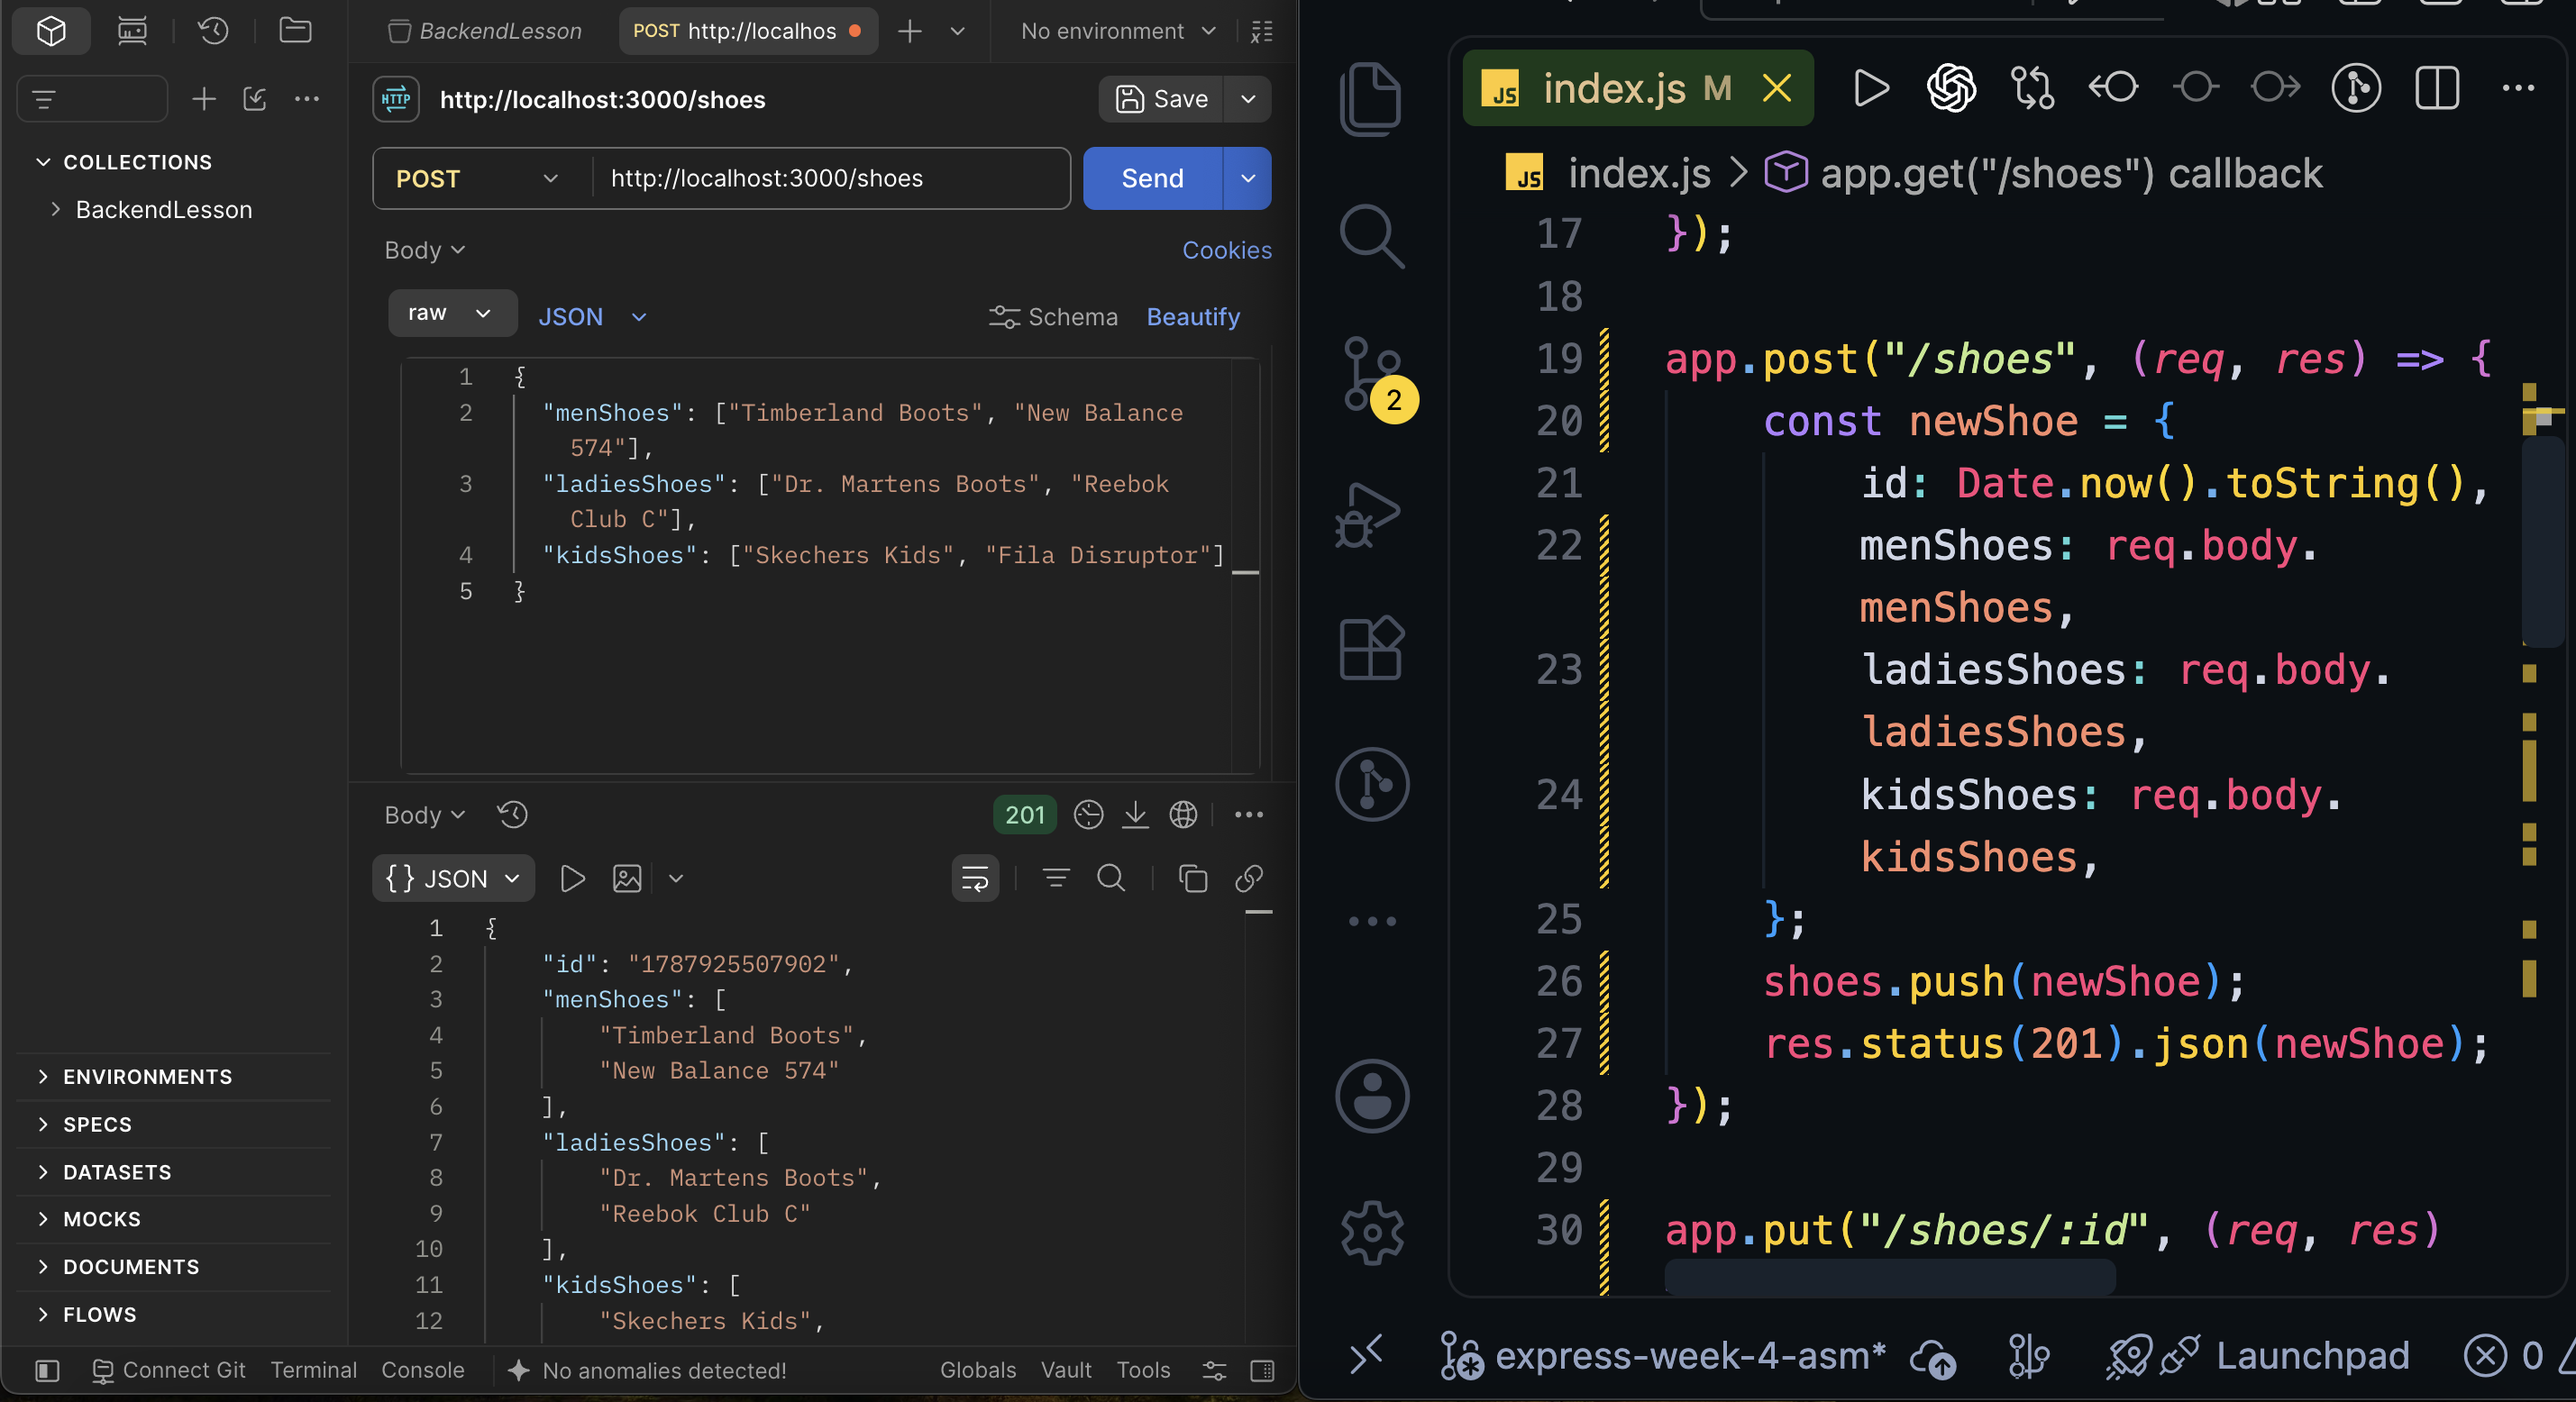
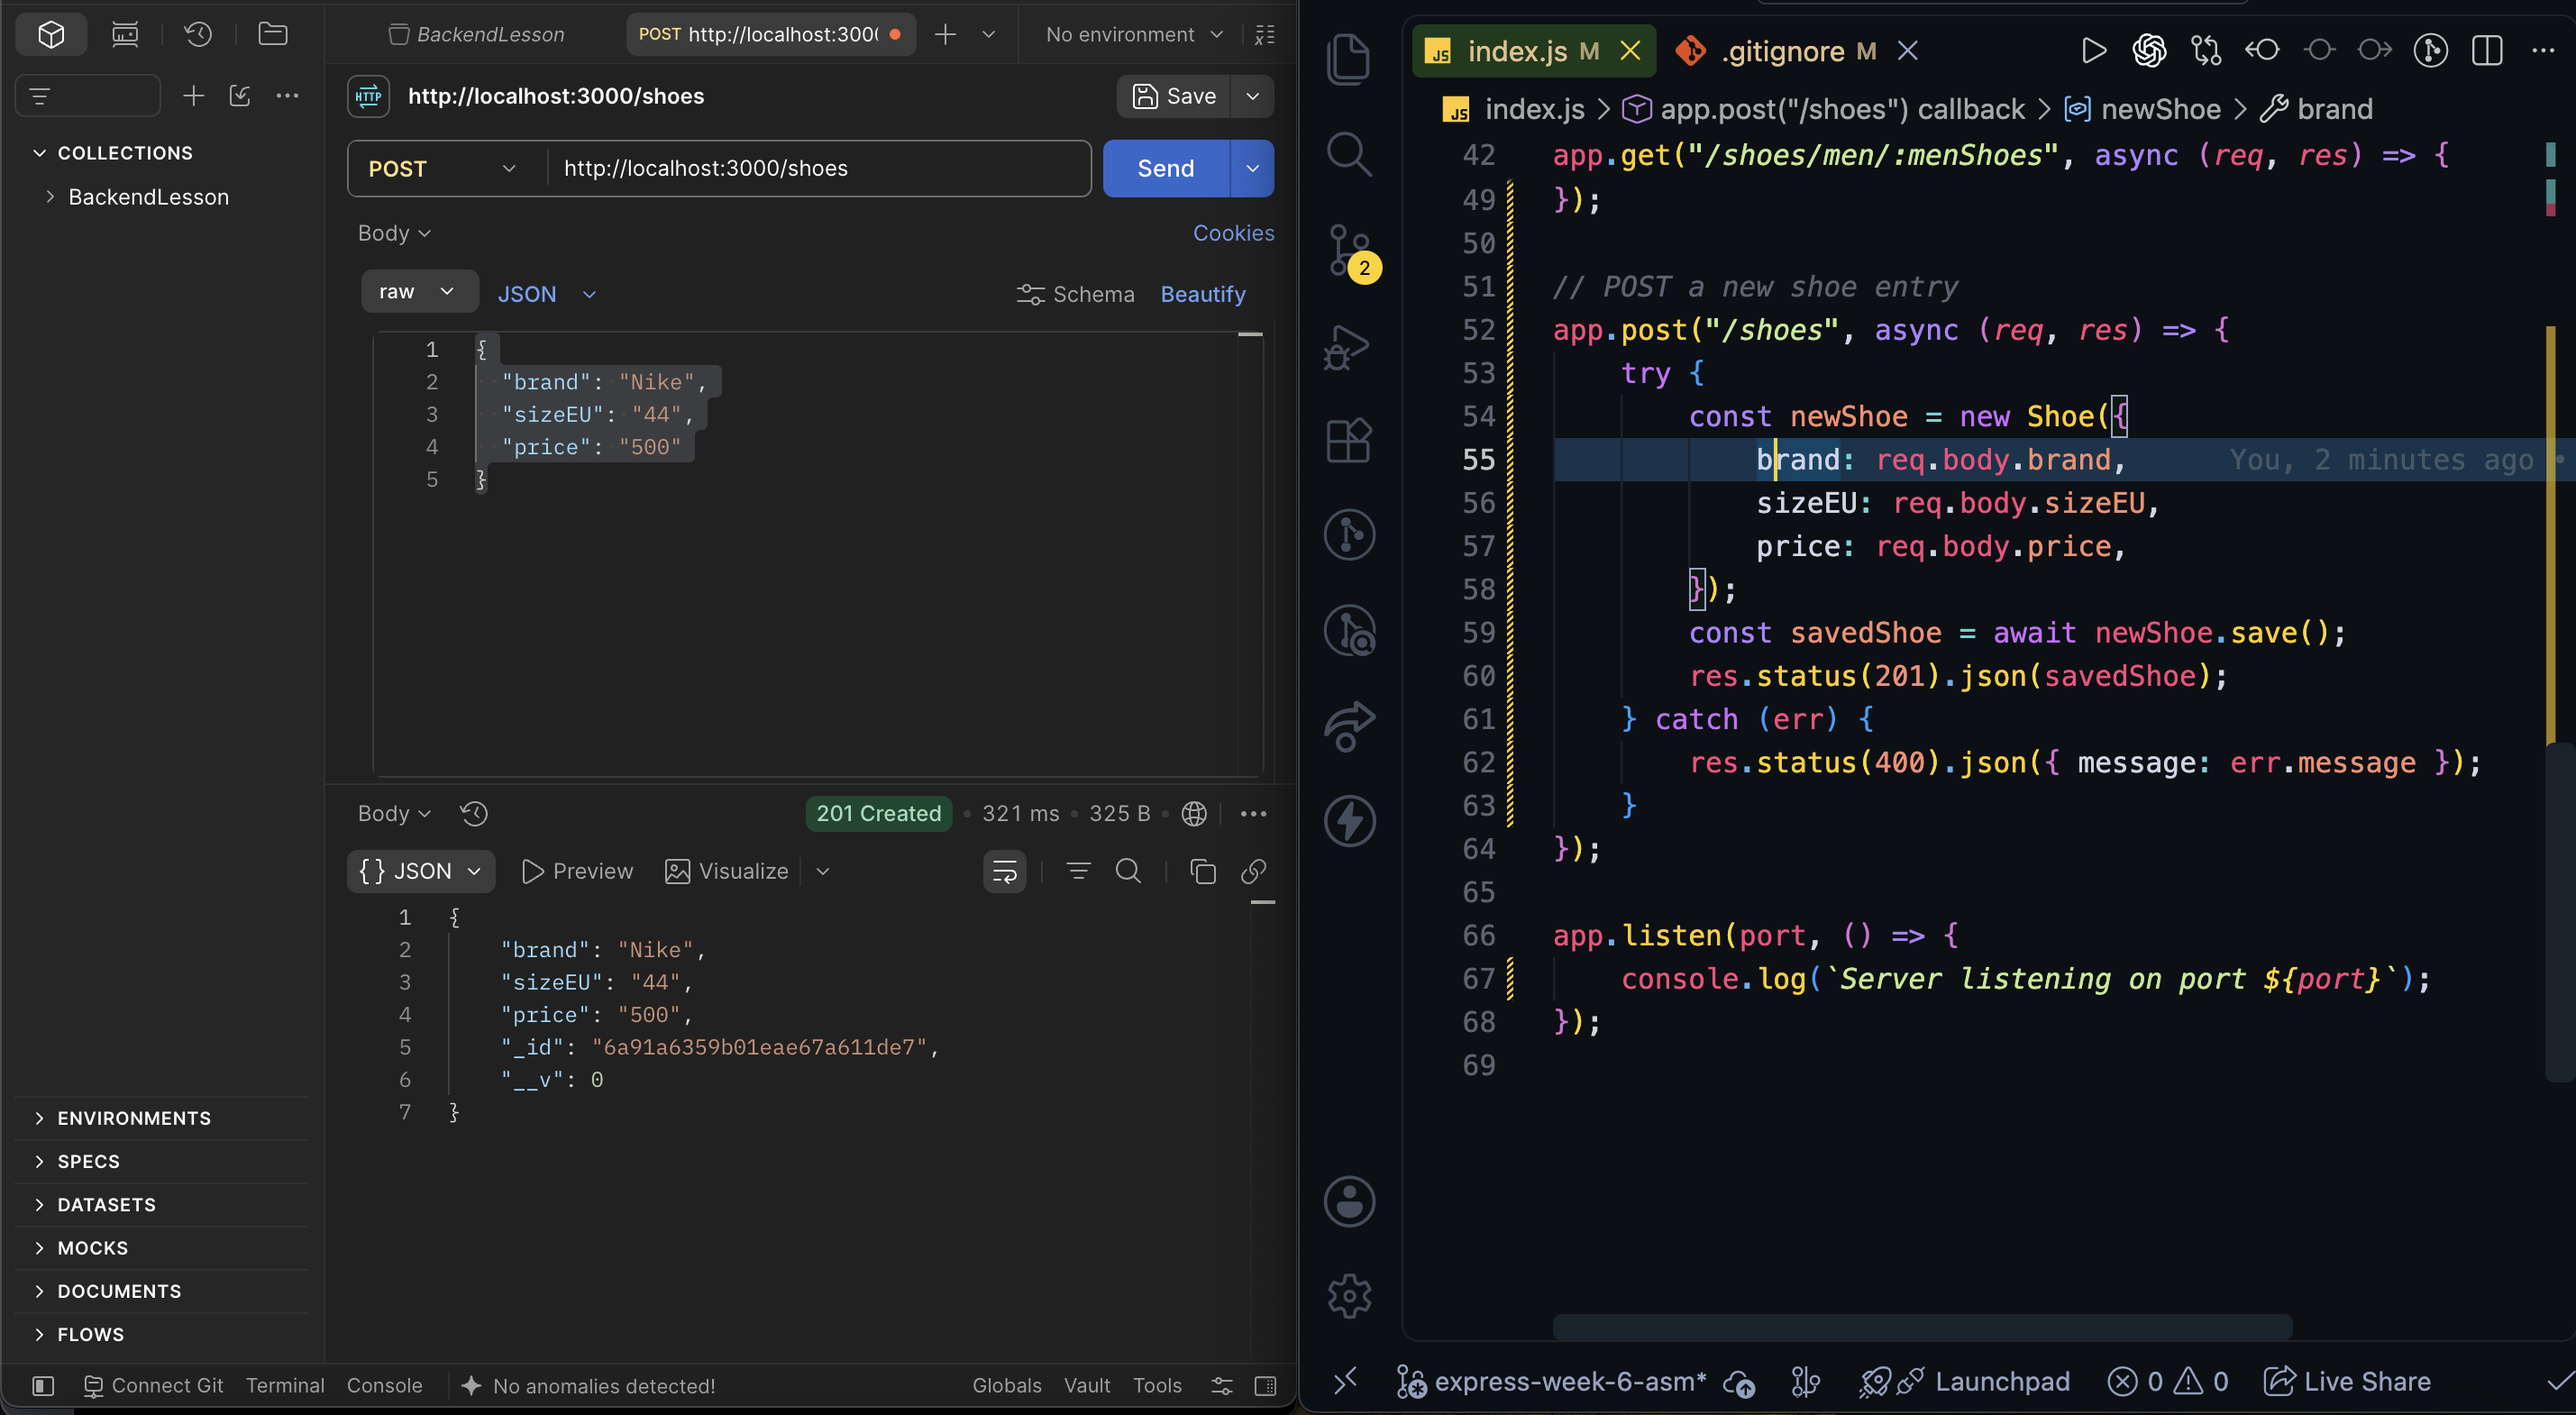
initial commit

diff --git a/index.js b/index.js
@@ -1,6 +1,9 @@
-const express = require("express");
-const app = express();
+require("dotenv").config();
 
+const express = require("express");
+const mongoose = require("mongoose");
+
+const app = express();
 const port = 3000;
 
 app.use(express.json());
@@ -10,46 +13,56 @@ app.use((req, res, next) => {
     next();
 });
 
-let shoes = [];
+// MongoDB Connection
+mongoose
+    .connect(process.env.MONGO_URI)
+    .then(() => console.log("Connected to MongoDB Atlas"))
+    .catch((err) => console.log("MongoDB connection error:", err));
 
-app.get("/shoes", (req, res) => {
-    res.json(shoes);
+// Shoe Store Schema & Model
+const shoeSchema = new mongoose.Schema({
+    brand: String,
+    sizeEU: String,
+    price: String,
 });
 
-app.post("/shoes", (req, res) => {
-    const newShoe = {
-        id: Date.now().toString(),
-        menShoes: req.body.menShoes,
-        ladiesShoes: req.body.ladiesShoes,
-        kidsShoes: req.body.kidsShoes,
-    };
-    shoes.push(newShoe);
-    res.status(201).json(newShoe);
-});
+const Shoe = mongoose.model("Shoe", shoeSchema);
 
-app.put("/shoes/:id", (req, res) => {
-    const id = req.params.id;
-    const index = shoes.findIndex((shoe) => shoe.id === id);
-
-    if (index !== -1) {
-        shoes[index] = {
-            id: id,
-            menShoes: req.body.menShoes,
-            ladiesShoes: req.body.ladiesShoes,
-            kidsShoes: req.body.kidsShoes,
-        };
-        res.json(shoes[index]);
-    } else {
-        res.status(404).json({ message: "Shoe store entry not found" });
+// GET all shoe entries
+app.get("/shoes", async (req, res) => {
+    try {
+        const shoes = await Shoe.find();
+        res.json(shoes);
+    } catch (err) {
+        res.status(500).json({ message: err.message });
     }
 });
 
-app.delete("/shoes/:id", (req, res) => {
-    const id = req.params.id;
-    shoes = shoes.filter((shoe) => shoe.id !== id);
-    res.json({ message: "Shoe store entry deleted" });
+// GET shoe entry by menShoes param
+app.get("/shoes/brand/:brand", async (req, res) => {
+    try {
+        const shoes = await Shoe.find({ menShoes: req.params.brand });
+        res.json(shoes);
+    } catch (err) {
+        res.status(500).json({ message: err.message });
+    }
+});
+
+// POST a new shoe entry
+app.post("/shoes", async (req, res) => {
+    try {
+        const newShoe = new Shoe({
+            brand: req.body.brand,
+            sizeEU: req.body.sizeEU,
+            price: req.body.price,
+        });
+        const savedShoe = await newShoe.save();
+        res.status(201).json(savedShoe);
+    } catch (err) {
+        res.status(400).json({ message: err.message });
+    }
 });
 
 app.listen(port, () => {
-    console.log(`Server listening on port ${port}\n`);
+    console.log(`Server listening on port ${port}`);
 });

diff --git a/README.md b/README.md
@@ -7,11 +7,3 @@
 ## POST request
 
 ![Screenshot of work](./screenshots/post-request.png)
-
-## PUT request that returns 404
-
-![Screenshot of work](./screenshots/put-request.png)
-
-## DELETE request
-
-![Screenshot of work](./screenshots/delete-request.png)
